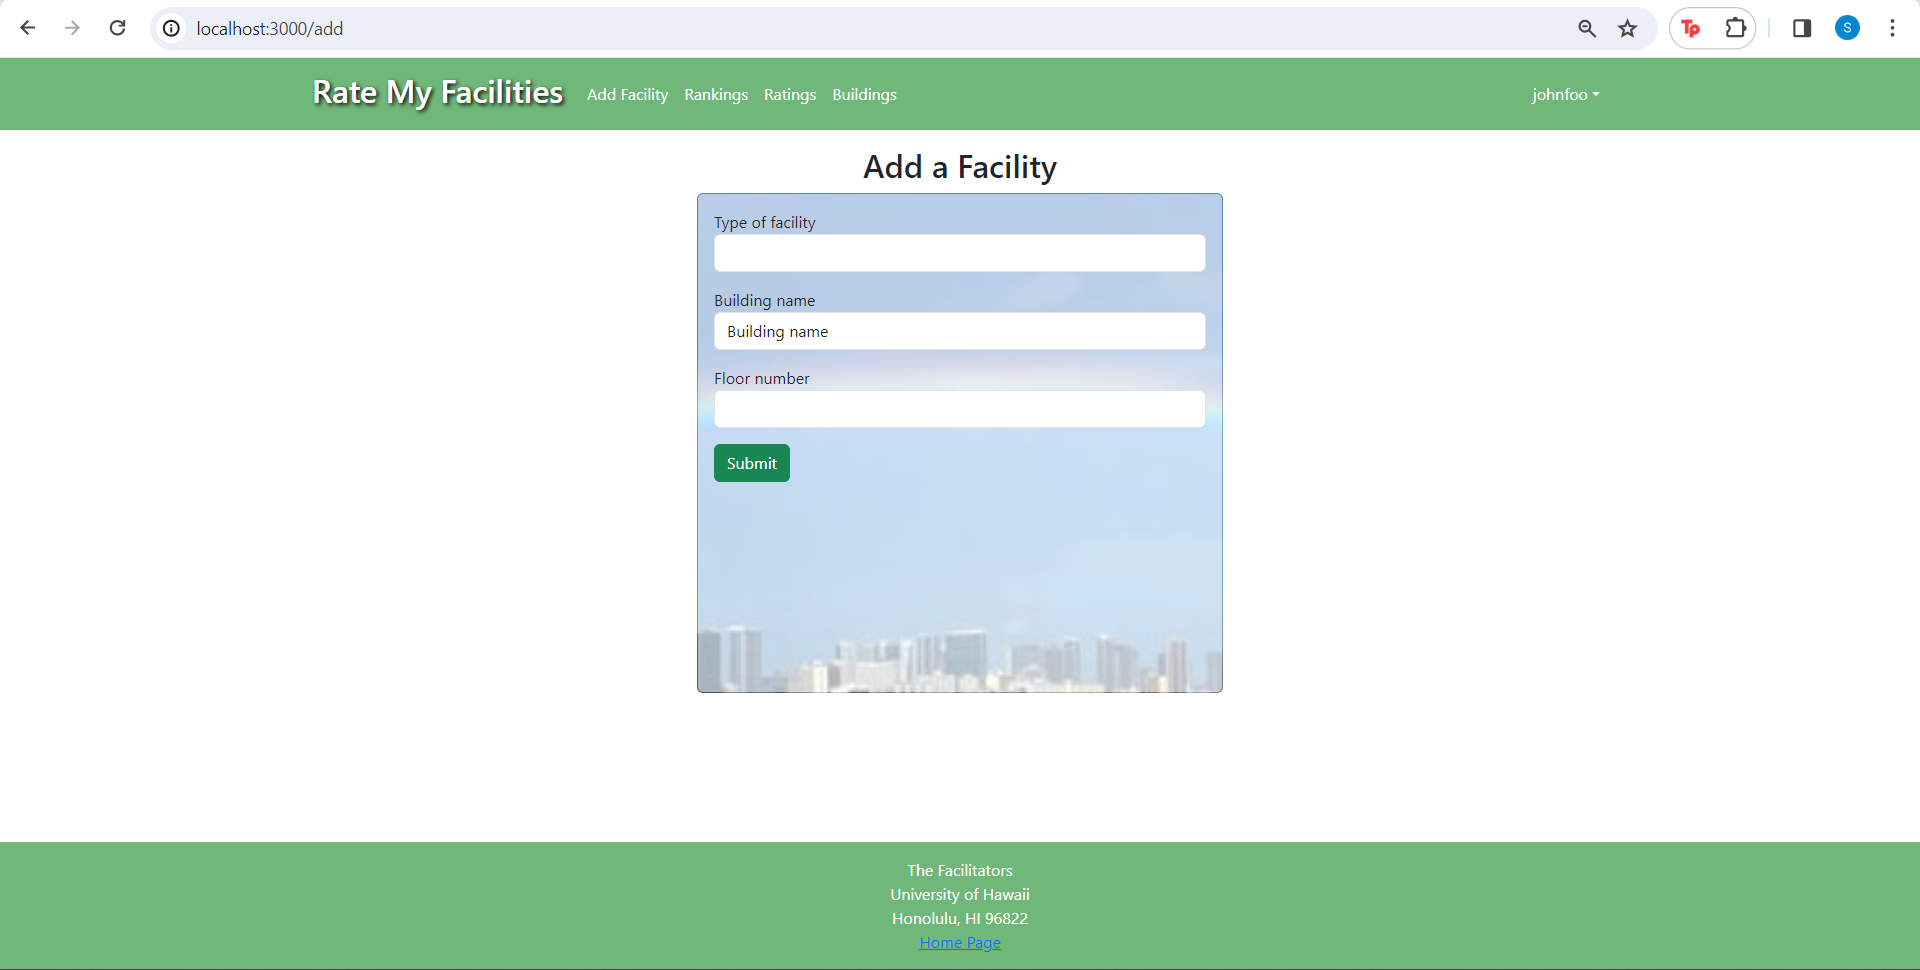
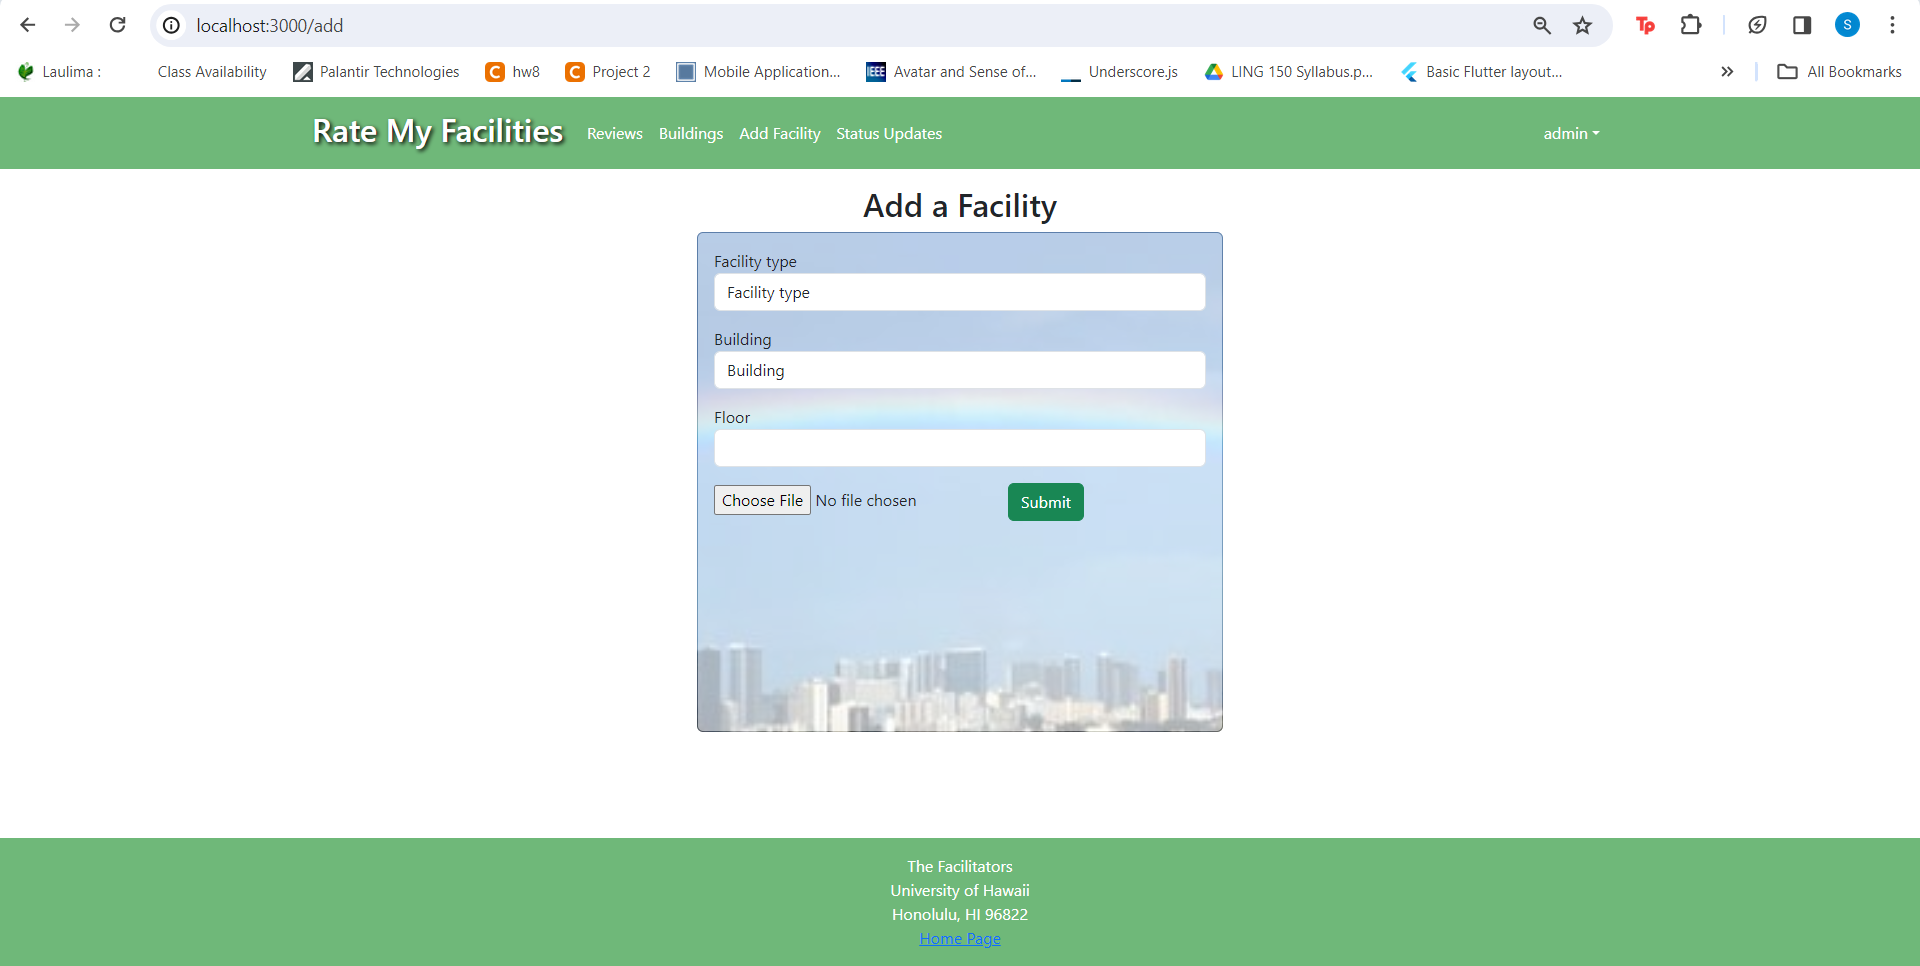
wip

diff --git a/index.md b/index.md
@@ -119,7 +119,6 @@ Once the user is logged in, they are able to access all ratings and view the top
 This page allows users to add and submit their reviews on facilities. 
 
 ### Individual Facilities
-
 <img src="assets/images/sample-facility.png">
 
 This page displays individual facilities, where the user is able to rate them. Users can also view and upload images and comments as well as report any issues. 
@@ -127,11 +126,27 @@ This page displays individual facilities, where the user is able to rate them. U
 ### Add a Facility Page
 <img src="assets/images/rmf_add-facility.png">
 
-This page allows users to add a new facility by specifying the type of facility, the building where the facility is found, and the floor number.
+This page allows users to add a new facility by specifying the type of facility, the building where the facility is found, the floor number, and photos of the facility.
 
 ### Building List
 <img src="assets/images/rmf_buildings.png">
-Logged users can view a list of UH Manoa buildings with information on how many facilities they have, such as number of restrooms and water filters.
+Logged users can view a list of UH Manoa buildings with information on how many facilities they have, such as number of restrooms and water filters. Clicking on a facility will take the user to its own individual page.
+
+### Status Updates (Admin)
+<img src="assets/images/rmf_status-update.png">
+Admins can view and update current usability status for all facilities. They can "Resolve" a facility that no longer has a standing issue and can also escalate an issue report into a standing issue.
+
+## Community Feedback
+We had UH Manoa students try Rate My Facilities, and the overall feedback was positive. They were able to create and log in to their accounts easily. When testing the 'Add Review' and 'Add Facility' forms, the majority of students found them simple and straightforward. They also appreciated the user-friendly design of the Individual Facility pages.
+
+Feedbacks from five students:
+* Student 1: "I like how you can report an issue if there's something wrong with a facility. It helps to let others know in case they want to use it."
+* Student 2: ""
+* Student 3: ""
+* Student 4: ""
+* Student 5: ""
+
+Overall, the students felt that the website had useful information and found it interesting that they could see updates on each facility. 
 
 ### Project Pages
 

diff --git a/m3.md b/m3.md
@@ -14,3 +14,12 @@ permalink: /m3
 - Finalize project structure and routing between pages
 
 <a href="https://github.com/orgs/d-facilitators/projects/4">Our M3 Project Board</a>
+
+<h2 id="progress">Milestone Progress:</h2>
+
+//TODO
+<img src="assets/images/m3.png">
+
+### Status Updates (Admin)
+<img src="assets/images/rmf_status-update.png">
+Admins can view and update current usability status for all facilities. They can "Resolve" a facility that no longer has a standing issue and can also escalate an issue report into a standing issue.
